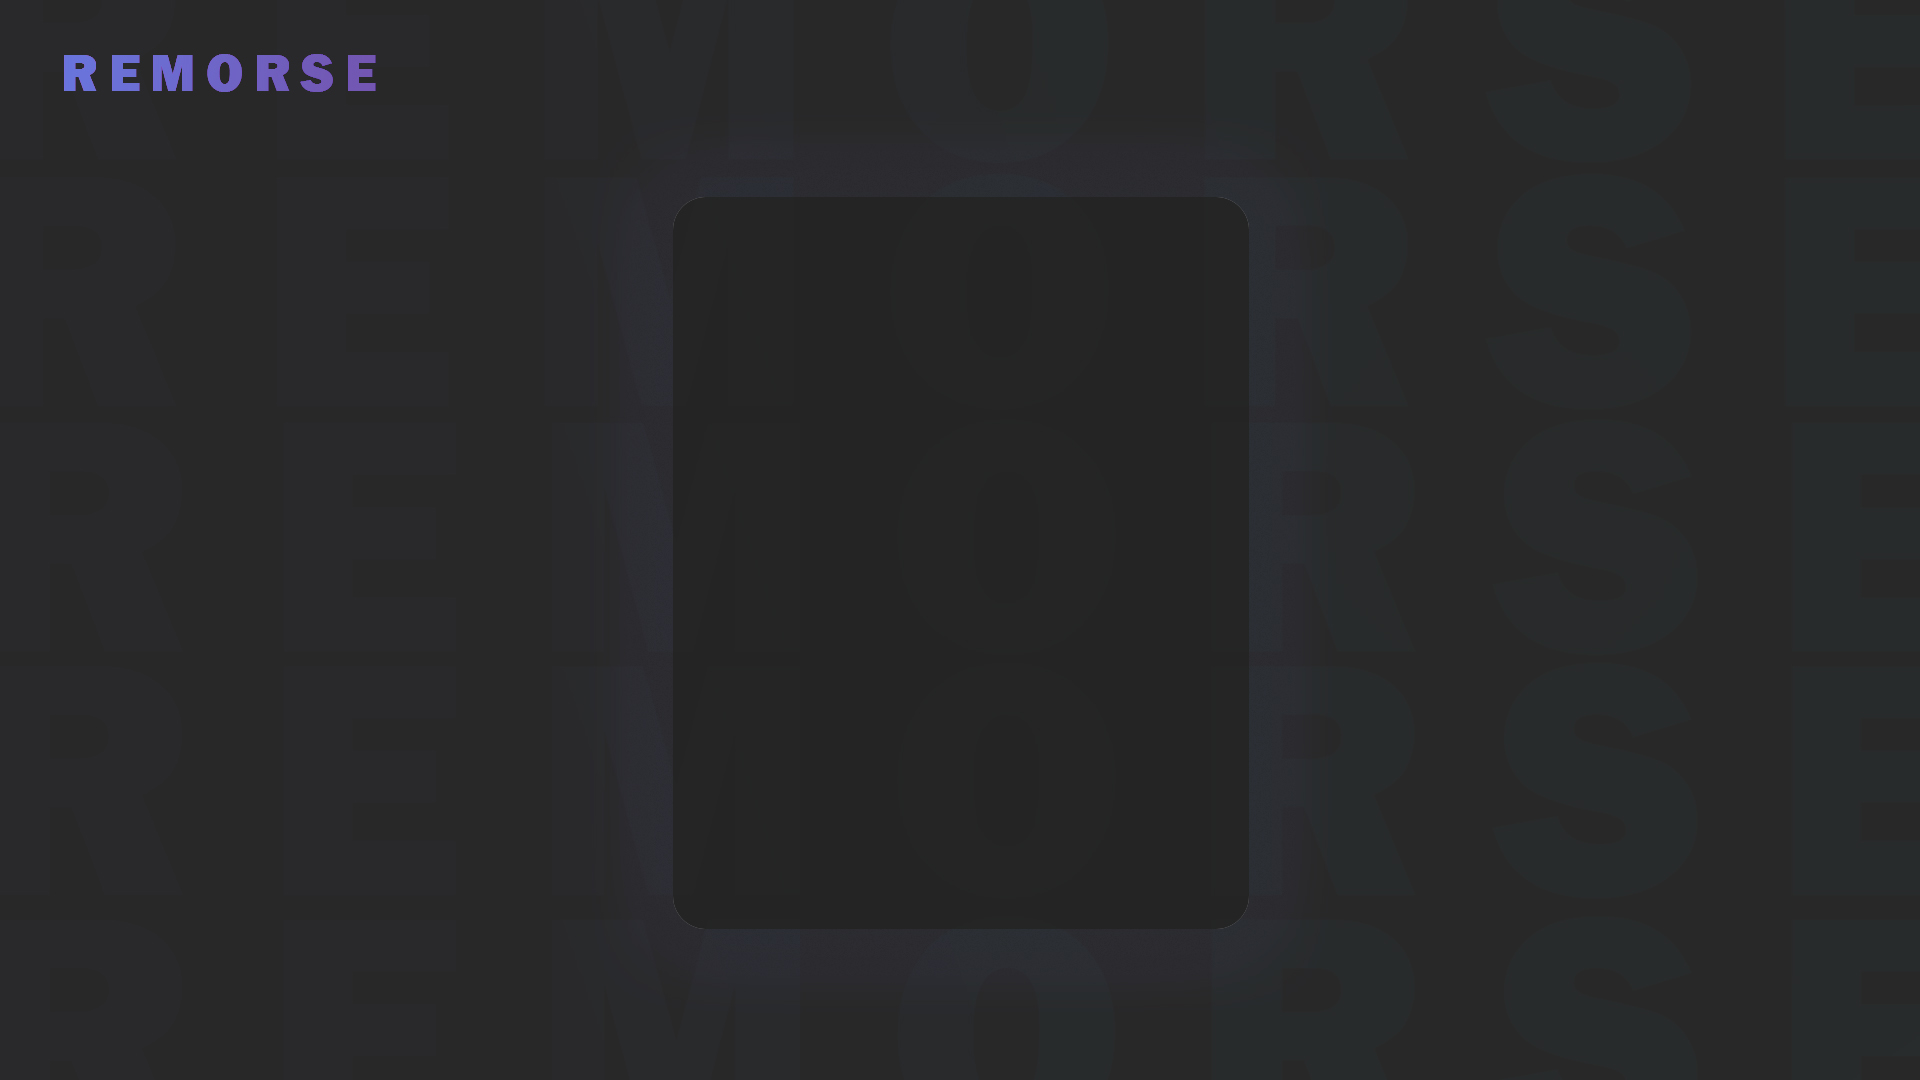
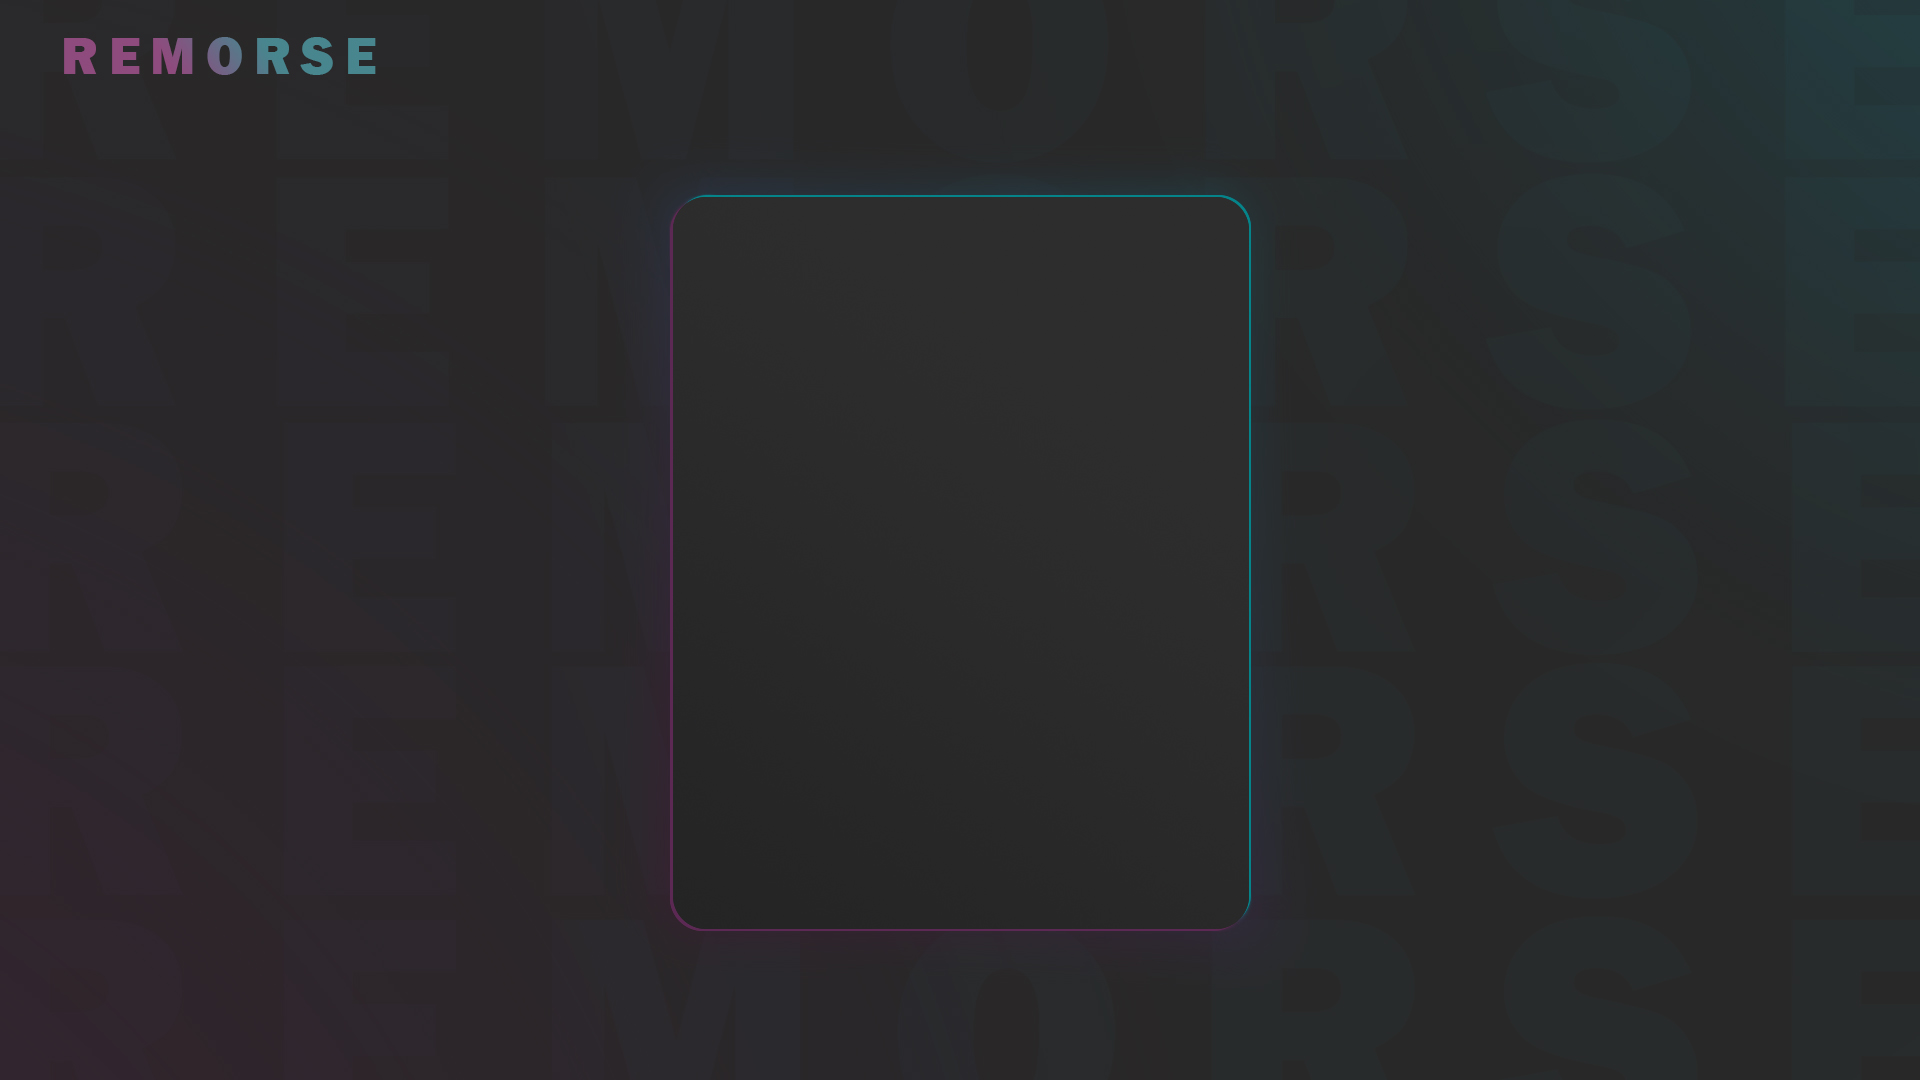
refact

Changed region(s): [[0.0312, 0.0306, 0.2188, 0.0917]]

diff --git a/Disintegration/Views/Pages/RegPage.xaml b/Disintegration/Views/Pages/RegPage.xaml
@@ -11,11 +11,11 @@
     <Grid Margin="0,50,0,0">
         <StackPanel VerticalAlignment="Top" HorizontalAlignment="Center" Margin="25">
             <TextBlock Text="Регистрация" TextAlignment="Center" VerticalAlignment="Center" FontSize="20" Foreground="LightGray" FontWeight="Normal" FontFamily="Bahnschrift SemiBold"/>
-            <TextBox Text="{Binding Name, UpdateSourceTrigger=PropertyChanged}" md:HintAssist.Hint="Имя" md:HintAssist.HintOpacity="0.5" HorizontalContentAlignment="Center" Width="180" Foreground="White" BorderBrush="#897F178F" Margin="0,10,0,10"/>
-            <TextBox Text="{Binding Login, UpdateSourceTrigger=PropertyChanged}" md:HintAssist.Hint="Логин" md:HintAssist.HintOpacity="0.5" HorizontalContentAlignment="Center" Width="180" Foreground="White" BorderBrush="#897F178F"/>
-            <PasswordBox PasswordChanged="OnPasswordChanged" HorizontalContentAlignment="Center" PasswordChar="*" md:HintAssist.Hint="Пароль" md:HintAssist.HintOpacity="0.5" Width="180" Foreground="White" BorderBrush="#897F178F" Margin="0,10,0,10" Cursor="IBeam"/>
-            <Button Content="Зарегистрироваться" Command="{Binding RegisterCommand}" Margin="0,20,0,20"/>
-            <Button Content="Назад" Command="{Binding TransitionAuthCommand}" Background="#FFC53992" BorderBrush="#FFC53992"/>
+            <TextBox Text="{Binding Name, UpdateSourceTrigger=PropertyChanged}" md:HintAssist.Hint="Имя" md:HintAssist.HintOpacity="0.5" HorizontalContentAlignment="Center" Width="180" Foreground="White" CaretBrush="Transparent" md:TextFieldAssist.UnderlineBrush="#FFB9448F" SelectionBrush="#FFB93C8C" BorderBrush="#FF89316A" Margin="0,10,0,10"/>
+            <TextBox Text="{Binding Login, UpdateSourceTrigger=PropertyChanged}" md:HintAssist.Hint="Логин" md:HintAssist.HintOpacity="0.5" HorizontalContentAlignment="Center" Width="180" Foreground="White" CaretBrush="Transparent" md:TextFieldAssist.UnderlineBrush="#FFB9448F" SelectionBrush="#FFB93C8C" BorderBrush="#FF89316A"/>
+            <PasswordBox PasswordChanged="OnPasswordChanged" HorizontalContentAlignment="Center" PasswordChar="*" md:HintAssist.Hint="Пароль" md:HintAssist.HintOpacity="0.5" Width="180" Foreground="White" CaretBrush="Transparent" md:TextFieldAssist.UnderlineBrush="#FFB9448F" SelectionBrush="#FFB93C8C" BorderBrush="#FF89316A" Margin="0,10,0,10" Cursor="IBeam"/>
+            <Button Content="Зарегистрироваться" Command="{Binding RegisterCommand}" VerticalContentAlignment="Top" Margin="0,20,0,20" Background="#FF07989E" BorderBrush="#FF07989E" Cursor="Hand"/>
+            <Button Content="Назад" Command="{Binding TransitionAuthCommand}" VerticalContentAlignment="Top" Background="#FF803773" BorderBrush="#FF803773"/>
         </StackPanel>
     </Grid>
 </Page>

diff --git a/Disintegration/Views/Windows/AuthWindow.xaml b/Disintegration/Views/Windows/AuthWindow.xaml
@@ -1,0 +1,51 @@
+<Window x:Class="Disintegration.Views.Windows.AuthWindow"
+        xmlns="http://schemas.microsoft.com/winfx/2006/xaml/presentation"
+        xmlns:x="http://schemas.microsoft.com/winfx/2006/xaml"
+        xmlns:d="http://schemas.microsoft.com/expression/blend/2008"
+        xmlns:mc="http://schemas.openxmlformats.org/markup-compatibility/2006"
+        xmlns:local="clr-namespace:Disintegration"
+        xmlns:fa="http://schemas.fontawesome.io/icons/"
+        xmlns:vm="clr-namespace:Disintegration.ViewModels"
+        mc:Ignorable="d"
+        Background="Transparent"
+        Title="Remorse" Height="450" Width="800" ResizeMode="NoResize" WindowStyle="None" WindowStartupLocation="CenterScreen" MouseMove="Window_onMouseMove">
+    <Window.DataContext>
+        <vm:AuthWindowViewModel/>
+    </Window.DataContext>
+    <Grid>
+        <Grid.Background>
+            <ImageBrush ImageSource="/Resources/background-login.jpg"/>
+        </Grid.Background>
+
+        <Grid.RowDefinitions>
+            <RowDefinition/>
+            <RowDefinition Height="14*"/>
+        </Grid.RowDefinitions>
+
+        <Grid>
+            <Grid.ColumnDefinitions>
+                <ColumnDefinition/>
+                <ColumnDefinition Width="11*"/>
+                <ColumnDefinition/>
+            </Grid.ColumnDefinitions>
+
+            <StackPanel Grid.Column="2" Orientation="Horizontal" VerticalAlignment="Stretch" HorizontalAlignment="Stretch" Margin="-10,0,0,0">
+                <StackPanel.DataContext>
+                    <vm:ApplicationViewModel/>
+                </StackPanel.DataContext>
+                <Button Command="{Binding ApplicationRollUpCommand}" ToolTip="Свернуть" Height="28" Width="28" BorderThickness="0">
+                    <Button.Background>
+                        <ImageBrush ImageSource="/Resources/rollup.png" Stretch="Uniform"/>
+                    </Button.Background>
+                </Button>
+                <Button Command="{Binding ApplicationExitCommand}" ToolTip="Закрыть" Height="28" Width="32" BorderThickness="0" Cursor="Hand">
+                    <Button.Background>
+                        <ImageBrush ImageSource="/Resources/exit.png" Stretch="UniformToFill"/>
+                    </Button.Background>
+                </Button>
+            </StackPanel>
+        </Grid>
+
+        <Frame x:Name="Page" Grid.Row="1" NavigationUIVisibility="Hidden"/>
+    </Grid>
+</Window>

diff --git a/Disintegration/Views/Pages/AuthPage.xaml b/Disintegration/Views/Pages/AuthPage.xaml
@@ -11,11 +11,11 @@
     <Grid Margin="0,50,0,0">
         <StackPanel VerticalAlignment="Top" HorizontalAlignment="Center" Margin="25">
             <TextBlock Text="Авторизация" TextAlignment="Center" VerticalAlignment="Center" FontSize="20" Foreground="LightGray" FontWeight="Normal" FontFamily="Bahnschrift SemiBold"/>
-            <TextBox Text="{Binding Login, UpdateSourceTrigger=PropertyChanged}" md:HintAssist.Hint="Логин" md:HintAssist.HintOpacity="0.5" HorizontalContentAlignment="Center" Width="180" Foreground="White" BorderBrush="#897F178F" Margin="0,10,0,0" Cursor="IBeam"/>
-            <PasswordBox PasswordChanged="OnPasswordChanged"  PasswordChar="*" md:HintAssist.Hint="Пароль" md:HintAssist.HintOpacity="0.5" HorizontalContentAlignment="Center" Width="180" Foreground="White" BorderBrush="#897F178F" Margin="0,20,0,20" Cursor="IBeam"/>
+            <TextBox Text="{Binding Login, UpdateSourceTrigger=PropertyChanged}" md:HintAssist.Hint="Логин" md:HintAssist.HintOpacity="0.5" HorizontalContentAlignment="Center" Width="180" Foreground="White" CaretBrush="Transparent" md:TextFieldAssist.UnderlineBrush="#FFB9448F" SelectionBrush="#FFB93C8C" BorderBrush="#FF89316A" Margin="0,10,0,0" Cursor="IBeam"/>
+            <PasswordBox PasswordChanged="OnPasswordChanged"  PasswordChar="*" md:HintAssist.Hint="Пароль" md:HintAssist.HintOpacity="0.5" HorizontalContentAlignment="Center" Width="180" Foreground="White" CaretBrush="Transparent" md:TextFieldAssist.UnderlineBrush="#FFB9448F" SelectionBrush="#FFB93C8C" BorderBrush="#FF89316A" Margin="0,20,0,20" Cursor="IBeam"/>
             <CheckBox Content="Запомнить меня" Foreground="LightGray" Background="AliceBlue" VerticalContentAlignment="Bottom" Padding="1.5"/>
-            <Button Content="Войти" Command="{Binding AuthCommand}" Margin="0,20,0,20"/>
-            <Button Content="Зарегистрироваться" Command="{Binding TransitionRegisterCommand}" Background="#FFC53992" BorderBrush="#FFC53992"/>
+            <Button Content="Войти" Command="{Binding AuthCommand}" VerticalContentAlignment="Top" Margin="0,20,0,20" Background="#FF07989E" BorderBrush="#FF07989E" Cursor="Hand"/>
+            <Button Content="Зарегистрироваться" Command="{Binding TransitionRegisterCommand}" VerticalContentAlignment="Top" Background="#FF803773" BorderBrush="#FF803773"/>
         </StackPanel>
     </Grid>
 </Page>

diff --git a/Disintegration/Views/Windows/MainWindow.xaml b/Disintegration/Views/Windows/MainWindow.xaml
@@ -3,42 +3,10 @@
         xmlns:x="http://schemas.microsoft.com/winfx/2006/xaml"
         xmlns:d="http://schemas.microsoft.com/expression/blend/2008"
         xmlns:mc="http://schemas.openxmlformats.org/markup-compatibility/2006"
-        xmlns:local="clr-namespace:Disintegration"
-        xmlns:fa="http://schemas.fontawesome.io/icons/"
-        xmlns:vm="clr-namespace:Disintegration.ViewModels"
+        xmlns:local="clr-namespace:Disintegration.Views.Windows"
         mc:Ignorable="d"
-        Background="Transparent"
-        Title="Remorse" Height="450" Width="800" ResizeMode="NoResize" WindowStyle="None" WindowStartupLocation="CenterScreen" MouseMove="Window_onMouseMove">
-    <Window.DataContext>
-        <vm:MainWindowViewModel/>
-    </Window.DataContext>
+        Title="MainWindow" Height="450" Width="800">
     <Grid>
-        <Grid.Background>
-            <ImageBrush ImageSource="/Resources/background-login.jpg"/>
-        </Grid.Background>
-
-        <Grid.RowDefinitions>
-            <RowDefinition/>
-            <RowDefinition Height="14*"/>
-        </Grid.RowDefinitions>
-
-        <Grid Background="#4F000000" >
-            <Grid.ColumnDefinitions>
-                <ColumnDefinition/>
-                <ColumnDefinition Width="11*"/>
-                <ColumnDefinition/>
-            </Grid.ColumnDefinitions>
-            
-            <StackPanel Grid.Column="2" Orientation="Horizontal" VerticalAlignment="Stretch" HorizontalAlignment="Stretch">
-                <Button Command="{Binding ApplicationRollUpCommand}" ToolTip="Свернуть" Height="25" Width="25" BorderThickness="0" Background="Transparent">
-                    <fa:ImageAwesome Icon="WindowMinimize" Foreground="White" Height="16" Width="16" Margin="-16,-10,-9,-10"/>
-                </Button>
-                <Button Command="{Binding ApplicationExitCommand}" ToolTip="Закрыть" Height="25" Width="25" BorderThickness="0" Background="Transparent" Margin="0,0,10,0">
-                    <fa:ImageAwesome Icon="Times" Foreground="White" Height="16" Margin="-16,-10,-9,-10"/>
-                </Button>
-            </StackPanel>
-        </Grid>
-
-        <Frame x:Name="Page" Grid.Row="1" NavigationUIVisibility="Hidden"/>
+        
     </Grid>
 </Window>

diff --git a/Disintegration/App.xaml b/Disintegration/App.xaml
@@ -3,7 +3,7 @@
              xmlns:x="http://schemas.microsoft.com/winfx/2006/xaml"
              xmlns:local="clr-namespace:Disintegration"
              xmlns:materialDesign="http://materialdesigninxaml.net/winfx/xaml/themes"
-             StartupUri="Views/Windows/MainWindow.xaml">
+             StartupUri="Views/Windows/AuthWindow.xaml">
     <Application.Resources>
         <ResourceDictionary>
             <ResourceDictionary.MergedDictionaries>

diff --git a/Disintegration/ViewModels/AuthWindowViewModel.cs b/Disintegration/ViewModels/AuthWindowViewModel.cs
@@ -8,7 +8,7 @@ using System.Windows.Input;
 
 namespace Disintegration.ViewModels
 {
-    class MainWindowViewModel : ViewModel
+    class AuthWindowViewModel : ViewModel
     {
         #region Properties
         private string login;
@@ -26,23 +26,13 @@ namespace Disintegration.ViewModels
         #endregion
 
         #region Commands
-        public ICommand ApplicationExitCommand { get; }
-        private void OnApplicationExitCommandExecuted(object p) => Environment.Exit(0);
-        private bool CanApplicationExitCommandExecute(object p) => true;
-
-        public ICommand ApplicationRollUpCommand { get; }
-        private void OnApplicationRollUpCommandExecuted(object p) => App.Current.MainWindow.WindowState = WindowState.Minimized;
-        private bool CanApplicationRollUpCommandExecute(object p) => true;
-
         public ICommand TransitionRegisterCommand { get; }
-        private void OnTransitionRegisterCommandExecuted(object p) => MainWindow.Navigate(new RegPage());
+        private void OnTransitionRegisterCommandExecuted(object p) => AuthWindow.Navigate(new RegPage());
         private bool CanTransitionRegisterCommandExecute(object p) => true;
         #endregion
 
-        public MainWindowViewModel()
+        public AuthWindowViewModel()
         {
-            ApplicationExitCommand = new LambdaCommand(OnApplicationExitCommandExecuted, CanApplicationExitCommandExecute);
-            ApplicationRollUpCommand = new LambdaCommand(OnApplicationRollUpCommandExecuted, CanApplicationRollUpCommandExecute);
             TransitionRegisterCommand = new LambdaCommand(OnTransitionRegisterCommandExecuted, CanTransitionRegisterCommandExecute);
         }
     }

diff --git a/Disintegration/Views/Windows/MainWindow.xaml.cs b/Disintegration/Views/Windows/MainWindow.xaml.cs
@@ -1,42 +1,27 @@
-using Disintegration.Views.Pages;
+using System;
+using System.Collections.Generic;
+using System.Linq;
+using System.Text;
+using System.Threading.Tasks;
 using System.Windows;
 using System.Windows.Controls;
+using System.Windows.Data;
+using System.Windows.Documents;
 using System.Windows.Input;
+using System.Windows.Media;
+using System.Windows.Media.Imaging;
+using System.Windows.Shapes;
 
 namespace Disintegration.Views.Windows
 {
+    /// <summary>
+    /// Логика взаимодействия для MainWindow.xaml
+    /// </summary>
     public partial class MainWindow : Window
     {
-        static Frame currentPage;
-        Point mouseOffset;
-        bool mousePressed;
         public MainWindow()
         {
             InitializeComponent();
-
-            currentPage = Page;
-            currentPage.Navigate(new AuthPage());
-        }
-
-        public static void Navigate(Page page) => currentPage.Navigate(page);
-
-        private void Window_onMouseMove(object sender, MouseEventArgs e)
-        {
-            if (e.LeftButton == MouseButtonState.Pressed)
-            {
-                if (!mousePressed)
-                {
-                    mousePressed = true;
-                    mouseOffset = e.GetPosition(this);
-                }
-                else
-                {
-                    var mouseScreen = PointToScreen(Mouse.GetPosition(this));
-                    this.Left = mouseScreen.X - mouseOffset.X;
-                    this.Top = mouseScreen.Y - mouseOffset.Y;
-                }
-            }
-            else mousePressed = false;
         }
     }
 }

diff --git a/Disintegration/Views/Windows/AuthWindow.xaml.cs b/Disintegration/Views/Windows/AuthWindow.xaml.cs
@@ -1,0 +1,42 @@
+using Disintegration.Views.Pages;
+using System.Windows;
+using System.Windows.Controls;
+using System.Windows.Input;
+
+namespace Disintegration.Views.Windows
+{
+    public partial class AuthWindow : Window
+    {
+        static Frame currentPage;
+        Point mouseOffset;
+        bool mousePressed;
+        public AuthWindow()
+        {
+            InitializeComponent();
+
+            currentPage = Page;
+            currentPage.Navigate(new AuthPage());
+        }
+
+        public static void Navigate(Page page) => currentPage.Navigate(page);
+
+        private void Window_onMouseMove(object sender, MouseEventArgs e)
+        {
+            if (e.LeftButton == MouseButtonState.Pressed)
+            {
+                if (!mousePressed)
+                {
+                    mousePressed = true;
+                    mouseOffset = e.GetPosition(this);
+                }
+                else
+                {
+                    var mouseScreen = PointToScreen(Mouse.GetPosition(this));
+                    this.Left = mouseScreen.X - mouseOffset.X;
+                    this.Top = mouseScreen.Y - mouseOffset.Y;
+                }
+            }
+            else mousePressed = false;
+        }
+    }
+}

diff --git a/Disintegration/Properties/Resources.Designer.cs b/Disintegration/Properties/Resources.Designer.cs
@@ -83,9 +83,29 @@ namespace Disintegration.Properties {
         /// <summary>
         ///   Поиск локализованного ресурса типа System.Byte[].
         /// </summary>
+        internal static byte[] exit {
+            get {
+                object obj = ResourceManager.GetObject("exit", resourceCulture);
+                return ((byte[])(obj));
+            }
+        }
+        
+        /// <summary>
+        ///   Поиск локализованного ресурса типа System.Byte[].
+        /// </summary>
         internal static byte[] logo {
             get {
                 object obj = ResourceManager.GetObject("logo", resourceCulture);
+                return ((byte[])(obj));
+            }
+        }
+        
+        /// <summary>
+        ///   Поиск локализованного ресурса типа System.Byte[].
+        /// </summary>
+        internal static byte[] rollup {
+            get {
+                object obj = ResourceManager.GetObject("rollup", resourceCulture);
                 return ((byte[])(obj));
             }
         }

diff --git a/Disintegration/ViewModels/ApplicationViewModel.cs b/Disintegration/ViewModels/ApplicationViewModel.cs
@@ -1,0 +1,25 @@
+using Disintegration.Commands;
+using Disintegration.ViewModels.Base;
+using System;
+using System.Windows;
+using System.Windows.Input;
+
+namespace Disintegration.ViewModels
+{
+    class ApplicationViewModel : ViewModel
+    {
+        #region Commands
+        public ICommand ApplicationExitCommand { get; }
+        private void OnApplicationExitCommandExecuted(object p) => Environment.Exit(0);
+        private bool CanApplicationExitCommandExecute(object p) => true;
+        public ICommand ApplicationRollUpCommand { get; }
+        private void OnApplicationRollUpCommandExecuted(object p) => App.Current.MainWindow.WindowState = WindowState.Minimized;
+        private bool CanApplicationRollUpCommandExecute(object p) => true;
+        #endregion
+        public ApplicationViewModel()
+        {
+            ApplicationRollUpCommand = new LambdaCommand(OnApplicationRollUpCommandExecuted, CanApplicationRollUpCommandExecute);
+            ApplicationExitCommand = new LambdaCommand(OnApplicationExitCommandExecuted, CanApplicationExitCommandExecute);
+        }
+    }
+}

diff --git a/Disintegration/ViewModels/RegPageViewModel.cs b/Disintegration/ViewModels/RegPageViewModel.cs
@@ -45,12 +45,12 @@ namespace Disintegration.ViewModels
             User newUser = new User() { Login = this.Login, Password = this.Password, Name = this.Name };
             await App.Db.AddAsync(newUser);
             await App.Db.SaveChangesAsync();
-            MainWindow.Navigate(new AuthPage());
+            AuthWindow.Navigate(new AuthPage());
         }
         private bool CanRegisterCommandExecute(object p) => !string.IsNullOrWhiteSpace(Login) && !string.IsNullOrWhiteSpace(Password) && !string.IsNullOrWhiteSpace(Name);
 
         public ICommand TransitionAuthCommand { get; }
-        private void OnTransitionAuthCommandExecuted(object p) => MainWindow.Navigate(new AuthPage());
+        private void OnTransitionAuthCommandExecuted(object p) => AuthWindow.Navigate(new AuthPage());
         private bool CanTransitionAuthCommandExecute(object p) => true;
         #endregion
 

diff --git a/Disintegration/ViewModels/AuthPageViewModel.cs b/Disintegration/ViewModels/AuthPageViewModel.cs
@@ -38,7 +38,7 @@ namespace Disintegration.ViewModels
         }
         private bool CanAuthCommandExecute(object p) => !string.IsNullOrWhiteSpace(Login) && !string.IsNullOrWhiteSpace(Password);
         public ICommand TransitionRegisterCommand { get; }
-        private void OnTransitionRegisterCommandExecuted(object p) => MainWindow.Navigate(new RegPage());
+        private void OnTransitionRegisterCommandExecuted(object p) => AuthWindow.Navigate(new RegPage());
         private bool CanTransitionRegisterCommandExecute(object p) => true;
         #endregion
         public AuthPageViewModel()
